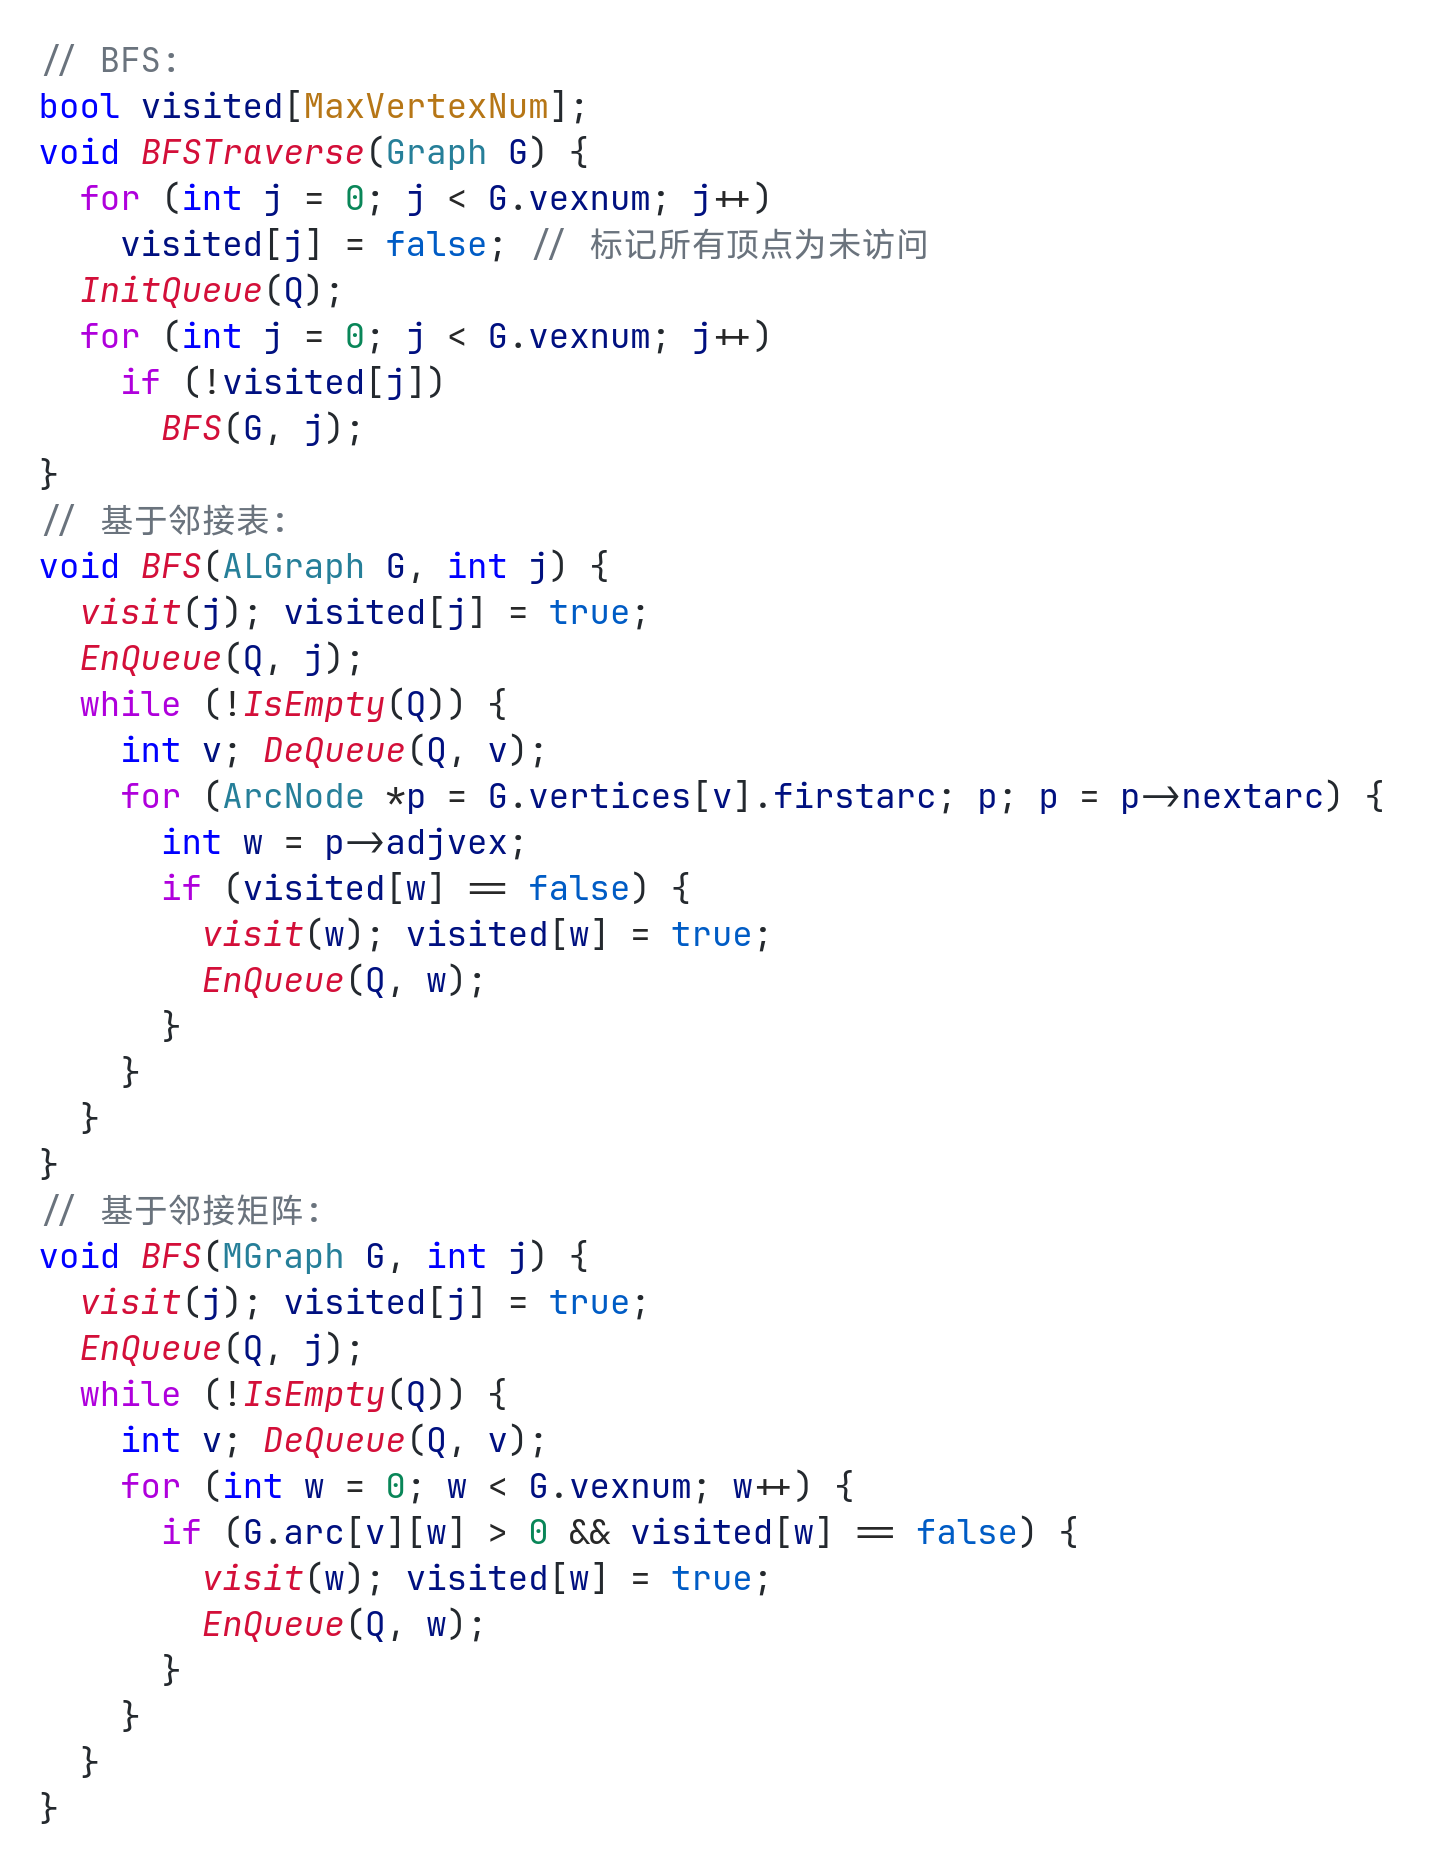
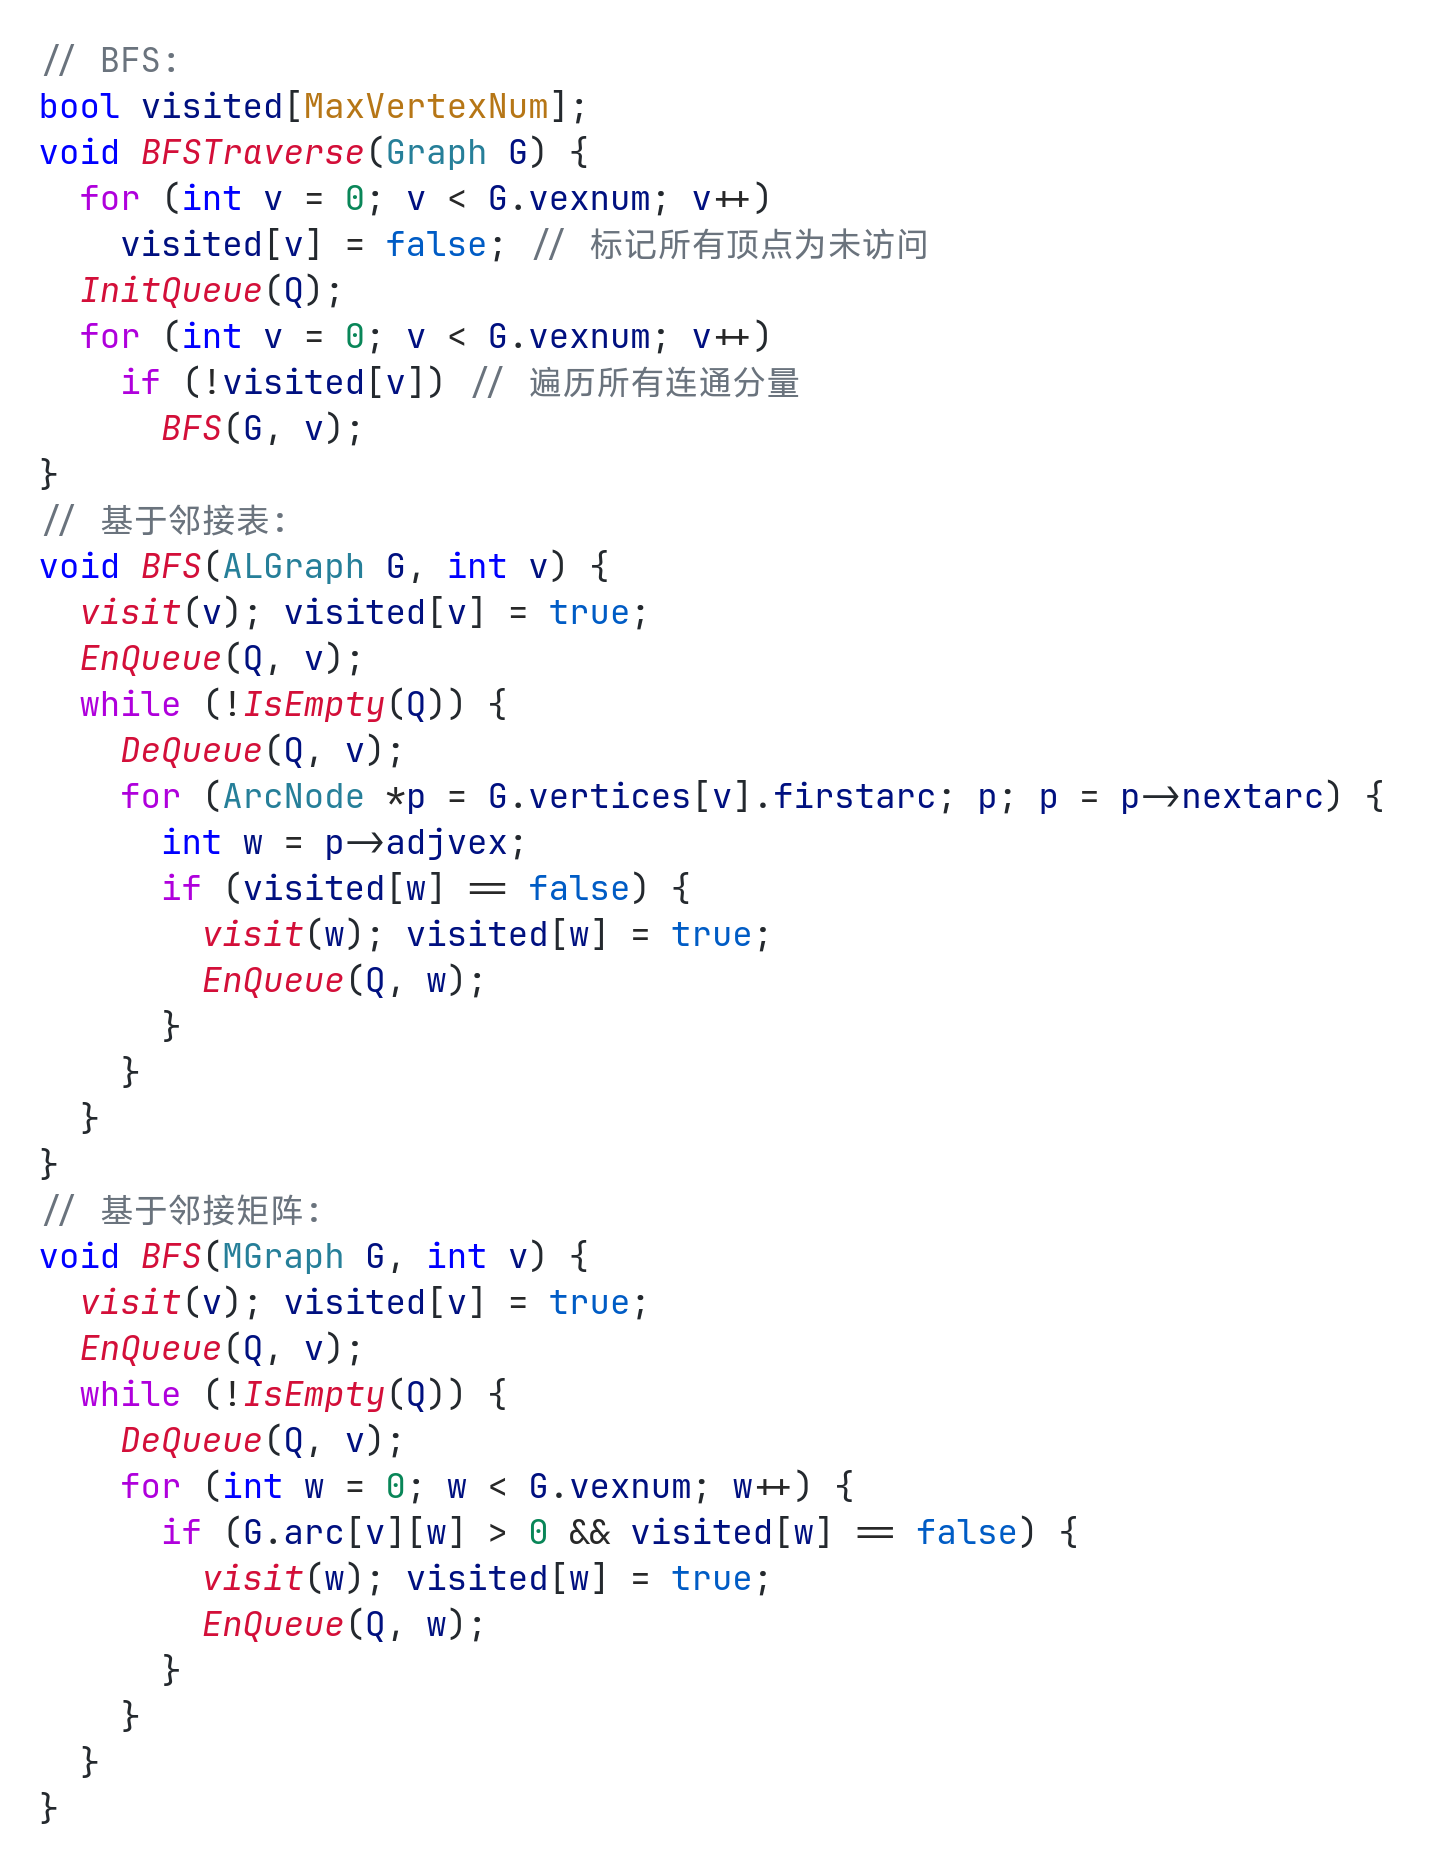
update

diff --git a/src/app/408/DataStructure/Chapter6.tsx b/src/app/408/DataStructure/Chapter6.tsx
@@ -32,6 +32,7 @@ export default function Chapter6() {
         连通、连通图、极大连通子图(连通分量): <strong>无向图</strong>中两个顶点间存在<strong>路径(顶点序列(序列中相邻的两顶点间有边连接))</strong>, 则称两顶点连通; 若图中任意两个顶点都连通则称此图为连通图; 包含尽可能多的顶点和边的连通子图称为极大连通子图, 也称为连通分量. <br />
         <div className="h-2" />
         强连通、强连通图、极大强连通子图(强连通分量): <strong>有向图</strong>中两个顶点间存在相互到达对方的路径(两个起点和终点位置相反的顶点序列), 则称两顶点强连通; 若图中任意两个顶点都强连通则称此图为强连通图; 包含尽可能多的顶点和弧的强连通子图称为极大强连通子图, 也称为强连通分量. <br />
+        <blockquote className="mt-3 mb-3">强连通图中任意两个顶点都存在与同一环路中. <br /></blockquote>
         <div className="h-2" />
         极小(强)连通子图: 包含一个连通图所有顶点但只包含(强)连通这些顶点的尽可能少的边 的(强)连通子图称为极小(强)连通子图. 对于极小(强)连通子图, 减少任意一条边则会变为非连通图, 加上任意一条边则会形成一个回路(起点和终点相同的路径). 
         <br />(极大(强)连通子图唯一, 极小(强)连通子图可能不唯一) <br />
@@ -158,16 +159,46 @@ export default function Chapter6() {
         广度优先遍历: <br />
         {Img({src: "Images/408/DataStructure/图的BFS算法.png", width: 700, align: "left", className: "m-0"})}
         <blockquote className="mt-3 mb-3">简述BFS过程: 入队第一个顶点同时访问; 顶点出队同时查找其邻接顶点, 所有邻接顶点入队同时被访问.</blockquote>
-        最大空间复杂度为(O|V|); <br />
+        <strong>最大空间复杂度为(O|V|); <br />
         采用邻接表存储时, 每个顶点至少入队一次, 每条边至少访问一次, 总时间复杂度为O(|V|+|E|); <br />
-        采用邻接矩阵存储时, 每个顶点至少入队一次, 查找每个顶点的邻接点都要遍历邻接矩阵的一行O(|V|), 总时间复杂度为<Latex>{`$O(|V|^2)$`}</Latex>. <br />
+        采用邻接矩阵存储时, 每个顶点至少入队一次, 查找每个顶点的邻接点都要遍历邻接矩阵的一行O(|V|), 总时间复杂度为<Latex>{`$O(|V|^2)$`}</Latex>. <br /></strong>
         <div className="h-2" />
         BFS计算单源最短路径长度: <br />
         {Img({src: "Images/408/DataStructure/BFS单源最短路径长度.png", width: 760, align: "left", className: "m-0 mb-1"})}
+        <blockquote className="mt-3 mb-3">BFS只适合求边权值相等的图的单源最短路径长度.</blockquote>
         <div className="h-2" />
         广度优先生成树: <br />
-        在广度遍历的过程中, 可以得到一棵遍历树, 称为广度优先生成树. 需要注意的是, 同一个图的邻接矩阵存储表示是唯一的, 所以其广度优先生成树也是唯一的; 但邻接表的存储表示不唯一, 其广度优先生成树不唯一.
+        在广度遍历的过程中, 会得到一棵遍历树/森林, 称为广度优先生成树/广度优先生成森林. 需要注意的是, 同一个图的邻接矩阵存储表示是唯一的, 所以其广度优先生成树也是唯一的; 但邻接表的存储表示不唯一, 其广度优先生成树不唯一.
       </p>
+      <p>
+        深度优先遍历: <br />
+        {Img({src: "Images/408/DataStructure/图的DFS算法.png", width: 700, align: "left", className: "m-0"})}
+        深度优先遍历的<strong>空间和时间复杂度都与广度优先遍历相同</strong>, 只有对顶点的访问顺序不同. 深度优先遍历同样会得到深度优先生成树/生成森林, 且为先根遍历. (基于邻接表的生成树/生成森林同样不唯一) <br />
+      </p>
+      <blockquote className="mt-3 mb-3">对于连通的非强连通有向图, 一次遍历不一定能访问所有顶点(甚至一次遍历不可能访问到所有顶点). </blockquote>
+      <p className="text-[#001080]"> 
+        <span className="text-lg">判断环路:</span>
+        <div className="h-2"/>
+        对于存在环的一个连通无向图(一个连通分量), 从任意顶点出发, 一定能在DFS的一次搜索过程中检测到环. 注意要特别排除一条路径中下一个顶点指向上一个顶点的情况, 因为无向图中相邻顶点本来就相当于有向图的一个环. (BFS不方便判断第二次遇到的顶点是否为同一条路径中的上一个顶点) <br />
+        <div className="h-2"/>
+        对于不存在环的一个有向图, DFS的一次搜索过程中仍可以遇到访问过的顶点(汇聚点). <br /> 
+        除了visited数组外, 再用一个栈来记录同一条搜索路径中的前缀顶点; 如果从任意顶点v出发二次遇到同一条搜索路径中的顶点(已访问且未出栈的顶点), 则说明存在环路. <br />
+        可以证明, 对于一个有向图, 可以通过一次DFS算法(可以包含n次深度优先搜索过程)判断其是否存在环路. <br />
+      </p>
+      <details open>
+        <summary className="cursor-pointer w-fit font-bold text-lg">例题</summary>
+        <div className="pl-6">
+          {Img({src: "Images/408/DataStructure/Exercises/6_3_2.png", width: 700, align: "left", className: "m-0 mt-1"})}
+          说法正确的是: 第三句.
+          {Img({src: "Images/408/DataStructure/Exercises/6_3_4.png", width: 700, align: "left", className: "m-0 mt-1"})}
+          {Img({src: "Images/408/DataStructure/Exercises/6_3_6.png", width: 700, align: "left", className: "m-0 mt-1"})}
+          答案: C A C A A A
+          {Img({src: "Images/408/DataStructure/Exercises/6_3_10.png", width: 700, align: "left", className: "m-0 mt-1"})}
+          {Img({src: "Images/408/DataStructure/Exercises/6_3_16to17.png", width: 700, align: "left", className: "m-0 mt-1"})}
+          答案: A B D D
+          <hr className="m-3 ml-[-6px]" />
+        </div>
+      </details>
     </div>
   )
 }

diff --git a/src/app/globals.css b/src/app/globals.css
@@ -6,6 +6,9 @@
 :root .daisy-prose {
     --tw-prose-body: var(--fallback-bc, oklch(var(--bc) / 1));
 }
+:root {
+    font-size: 20px;
+}
 /* :root {
     color: oklch(var(--bc) / 0.8)
 } */

diff --git a/public/Code/graph.cpp b/public/Code/graph.cpp
@@ -60,19 +60,19 @@ void visit(int j) {}
 // BFS:
 bool visited[MaxVertexNum];
 void BFSTraverse(Graph G) {
-  for (int j = 0; j < G.vexnum; j++)
-    visited[j] = false; // 标记所有顶点为未访问
+  for (int v = 0; v < G.vexnum; v++)
+    visited[v] = false; // 标记所有顶点为未访问
   InitQueue(Q);
-  for (int j = 0; j < G.vexnum; j++)
-    if (!visited[j]) 
-      BFS(G, j);
+  for (int v = 0; v < G.vexnum; v++)
+    if (!visited[v]) // 遍历所有连通分量
+      BFS(G, v);
 }
 // 基于邻接表:
-void BFS(ALGraph G, int j) {
-  visit(j); visited[j] = true;
-  EnQueue(Q, j);
+void BFS(ALGraph G, int v) {
+  visit(v); visited[v] = true;
+  EnQueue(Q, v);
   while (!IsEmpty(Q)) {
-    int v; DeQueue(Q, v);
+    DeQueue(Q, v);
     for (ArcNode *p = G.vertices[v].firstarc; p; p = p->nextarc) {
       int w = p->adjvex;
       if (visited[w] == false) {
@@ -83,11 +83,11 @@ void BFS(ALGraph G, int j) {
   }
 }
 // 基于邻接矩阵:
-void BFS(MGraph G, int j) {
-  visit(j); visited[j] = true;
-  EnQueue(Q, j);
+void BFS(MGraph G, int v) {
+  visit(v); visited[v] = true;
+  EnQueue(Q, v);
   while (!IsEmpty(Q)) {
-    int v; DeQueue(Q, v);
+    DeQueue(Q, v);
     for (int w = 0; w < G.vexnum; w++) {
       if (G.arc[v][w] > 0 && visited[w] == false) {
         visit(w); visited[w] = true;
@@ -116,5 +116,33 @@ void BFSMinDistance(Graph G, int v) {
         d[w] = d[v] + 1;
         EnQueue(Q, w);
       }
+  }
+}
+
+
+// DFS:
+bool visited[MaxVertexNum];
+void DFSTraverse(Graph G) {
+  for (int v = 0; v < G.vexnum; v++)
+    visited[v] = false; // 标记所有顶点为未访问
+  for (int v = 0; v < G.vexnum; v++) 
+    if(!visited[v]) // 遍历所有连通分量
+      DFS(G, v);
+}
+// 基于邻接表:
+void DFS(ALGraph G, int v) {
+  visit(v); visited[v] = true;
+  for (ARcNode *p = G.vertices[j].firstarc; p; p = p->nextarc) {
+    v = p->adjvex;
+    if (!visited[v])
+      DFS(G, v);
+  }
+}
+// 基于邻接矩阵:
+void DFS(MGraph G, int v) {
+  visit(v); visited[v] = true;
+  for (int w = 0; w < G.vexnum; w++) {
+    if (!visited[w] && G.arc[v][w] == 1)
+      DFS(G, w);
   }
 }
